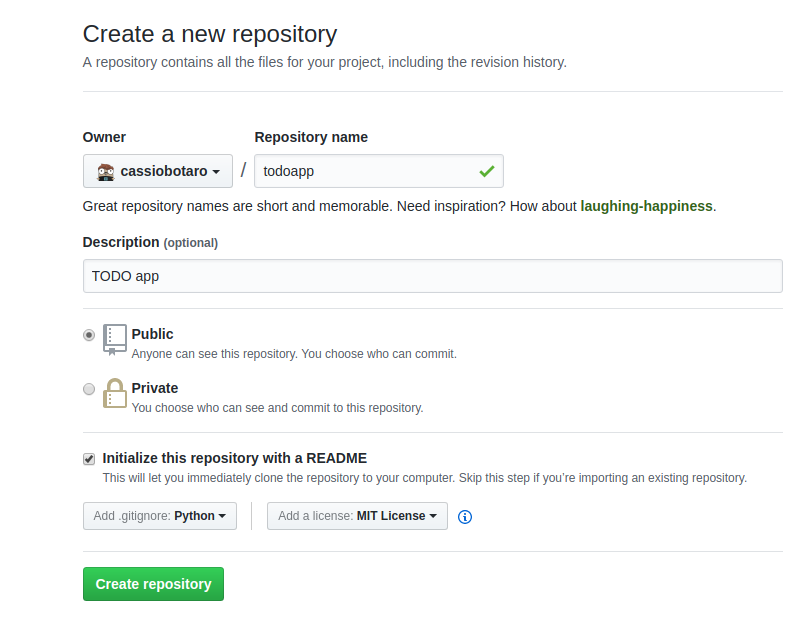
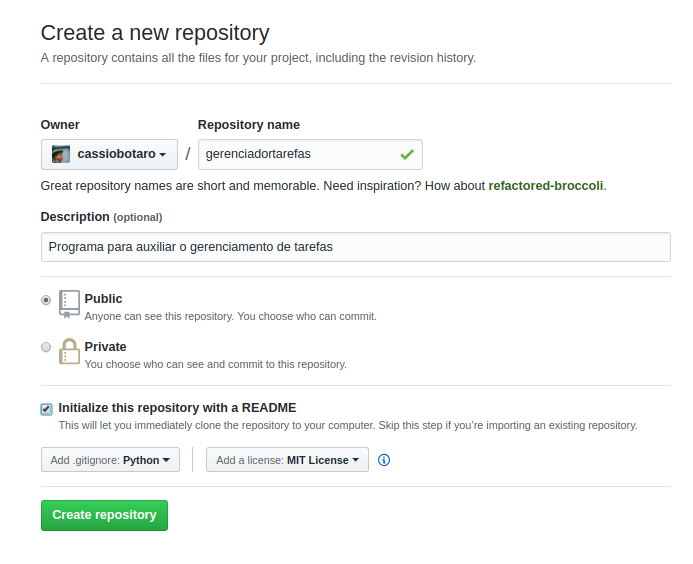
atualizando versões e revisando conteúdo

diff --git a/projeto.md b/projeto.md
@@ -10,7 +10,7 @@ Antes de instalar as bibliotecas que utilizaremos durante o nosso projeto, preci
 
 ## :arrow_forward: Começando a tirar do papel o projeto
 
-O primeiro passo para desenvolvimento do nosso aplicativo web é criá-lo utilizando um controle de versão.Para este minicurso optei pelo controle de versão mais popular hoje em dia que se chama git.
+O primeiro passo para desenvolvimento do nosso aplicativo web é criá-lo utilizando um controle de versão. Para este minicurso optei pelo controle de versão mais popular hoje em dia que se chama git.
 
 Aproveitando esta escolha, como o Github é gratuito e também o mais conhecido, vamos hospedar o projeto lá(que irá ajudar com algumas integrações futuramente).
 
@@ -25,8 +25,8 @@ Preencha os campos como visto na imagem abaixo.
 Agora faça um "clone" do seu repositório.
 
 ```bash
-$ git clone https://github.com/cassiobotaro/todoapp.git
-Cloning into 'todoapp'...
+$ git clone https://github.com/cassiobotaro/gerenciadortarefas.git
+Cloning into 'gerenciadortarefas'...
 remote: Counting objects: 5, done.
 remote: Compressing objects: 100% (4/4), done.
 remote: Total 5 (delta 0), reused 0 (delta 0), pack-reused 0
@@ -92,9 +92,9 @@ A saída para ambos os sistemas operacionais deverá ser similar a apresentada a
 
 ```bash
 $ pipenv run python -m flask --version
-Flask 0.12.2
-Python 3.6.4 (default, Jan  5 2018, 02:35:40)
-[GCC 7.2.1 20171224]
+Flask 1.0.2
+Python 3.7.0 (default, Sep 15 2018, 19:13:07) 
+[GCC 8.2.1 20180831]
 ```
 
 ### :link: Httpie
@@ -176,7 +176,7 @@ A saída para ambos os sistemas operacionais deverá ser similar a apresentada a
 
 ```bash
 $ pipenv run python -m pytest --version
-This is pytest version 3.4.2, imported from /home/cassiobotaro/.virtualenvs/todo.app-AIIv-fDj/lib/python3.6/site-packages/pytest.py
+This is pytest version 3.8.0, imported from /home/cassiobotaro/.local/share/virtualenvs/gerenciadortarefas-StqQxdHi/lib/python3.7/site-packages/pytest.py
 ```
 
 Neste momento seu diretório deve estar assim:
@@ -193,8 +193,8 @@ Vamos testar nossa instalção então?
 
 ```bash
 $ python3
-Python 3.6.2 (default, Jul 20 2017, 03:52:27)
-[GCC 7.1.1 20170630] on linux
+Python 3.7.0 (default, Sep 15 2018, 19:13:07) 
+[GCC 8.2.1 20180831] on linux
 Type "help", "copyright", "credits" or "license" for more information.
 >>> import flask
 Traceback (most recent call last):
@@ -203,14 +203,17 @@ ModuleNotFoundError: No module named 'flask'
 >>>
 ```
 
+:pushpin: Utilize `<Ctrl> + d` ou `exit()` para sair do python.
+
 :scream: Se entramos no python e tentamos importar a biblioteca flask, um erro é retornado dizendo que o módulo não foi encontrado.
 
 Acontece que instalamos o flask somente no ambiente virtual. Para entrarmos no ambiente virtual digite `pipenv shell`.
 
 ```bash
 $ python3
-Python 3.6.2 (default, Jul 20 2017, 03:52:27)
-[GCC 7.1.1 20170630] on linux
+n3
+Python 3.7.0 (default, Sep 15 2018, 19:13:07) 
+[GCC 8.2.1 20180831] on linux
 Type "help", "copyright", "credits" or "license" for more information.
 >>> import flask
 >>>
@@ -219,6 +222,7 @@ Type "help", "copyright", "credits" or "license" for more information.
 Instalado as dependências, vamos salvar uma primeira versão do nosso projeto com o nosso andamento?
 
 Primeiro passo é checar o que foi feito até agora:
+
 ```bash
 $ git status
 On branch master

diff --git a/ferramentas.md b/ferramentas.md
@@ -4,9 +4,9 @@
   <img style="float: right;" src="/imgs/acessorios-para-cozinha.jpg" alt="Acessórios de cozinha"/>
 </p>
 
-## Um bom chef escolhe as melhores ferramentas
+## :fork_and_knife: Um bom chef escolhe as melhores ferramentas
 
-Uma analogia que sou acostumado a fazer é que programar é igual a cozinhar, você deve escolher as melhores ferramentas. Um
+Uma analogia que normalmente faço é que programar é igual a cozinhar, você deve escolher as melhores ferramentas. Um
 bom chefe gasta algumas horas escolhendo quais acessórios serão necessários para a produção do prato e já deixa na bancada de
 forma que não precise ficar procurando enquanto está produzindo seu prato.
 
@@ -28,7 +28,7 @@ Siga os passos de acordo com o seu sistema operacional para cada ferramenta. Ten
 
 **Para que serve?**
 
-Com certeza você já escreveu um arquivo, mais tarde troca algumas coisas e salva como final. Mais tarde ou no outro dia decide fazer mais mudanças e chama de "agoravai" e quando menos percebe já tem um monte de arquivo e talvez nem se lembre mais qual a ultima versão.
+Com certeza você já escreveu um arquivo, mais tarde troca algumas coisas e salva como final. Mais tarde ou no outro dia você decide fazer mais mudanças e chama de "agoravai" e quando menos percebe já tem um monte de arquivos e talvez nem se lembre mais qual a ultima versão.
 
 É para gerenciar alterações feitas no projeto durante o tempo que serve esta ferramenta. Durante o curso vamos salvando cada progresso feito sem precisar de ter várias cópias do mesmo arquivo.
 
@@ -60,7 +60,7 @@ A saída para ambos os sistemas operacionais deverá ser:
 
 ```bash
 $ git --version
-git version 2.16.2
+git version 2.19.0
 ```
 
 ## :snake: Python
@@ -105,7 +105,7 @@ A saída para ambos os sistemas operacionais deverá ser:
 
 ```bash
 $ python3 --version
-Python 3.6.4
+Python 3.7.0
 ```
 
 ## :truck: Pip
@@ -142,7 +142,7 @@ A saída para ambos os sistemas operacionais deverá ser similar a apresentada a
 
 ```bash
 $ python3 -m pip --version
-pip 9.0.1 from /usr/lib/python3.6/site-packages (python 3.6)
+pip 18.0 from /usr/lib/python3.7/site-packages (python 3.7)
 ```
 
 ## :space_invader: Pipenv
@@ -181,7 +181,7 @@ A saída para ambos os sistemas operacionais deverá ser similar a apresentada a
 
 ```bash
 $ pipenv --version
-pipenv, version 11.6.1
+pipenv, version 2018.7.1
 ```
 
 ## :cloud: Heroku CLI
@@ -222,7 +222,7 @@ A saída para ambos os sistemas operacionais deverá ser similar a apresentada a
 
 ```bash
 $ heroku --version
-heroku-cli/6.15.35-cf39a29 (linux-x64) node-v9.8.0
+heroku/7.16.0 linux-x64 node-v10.10.0
 ```
 
 :tada: Parabéns! Instalamos todas as ferramentas que precisaremos para acompanhar este curso, vamos para o próximo passo!

diff --git a/planejando.md b/planejando.md
@@ -4,18 +4,18 @@
   <img style="float: right;" src="/imgs/todolist.png" alt="Lista de tarefas"/>
 </p>
 
-## Definindo o que iremos desenvolver
+## :thought_balloon: Definindo o que iremos desenvolver
 
 Quando iniciamos um projeto, a primeira coisa que devemos conhecer são as "regras de negócio" do nosso projeto. Mas o que é isso?
 
-É a descrição de como o nosso sistema deve ser e como deve se comportar diante da interação do usuário. Por exemplo, o sistema escolhido hoje é uma lista de afazeres.
+É a descrição de como o nosso sistema deve ser e como deve se comportar diante da interação do usuário. Por exemplo, o sistema escolhido hoje é para organizar uma lista de tarefas.
 
 
-## Regras de negócio
+## :pencil: Regras de negócio
 
-O sistema será um gerenciador de tarefas e a primeira decisão é que nosso sistema deve apresentar uma interface que possa ser consumida tanto por um website, tanto por um aplicativo.
+O sistema será um gerenciador de tarefas e a primeira decisão é que nosso sistema deve apresentar uma interface que possa ser consumida tanto por um website, tanto por um aplicativo para dispositivos móveis.
 
-Cada tarefa(afazer) possui um identificador único, um titulo e uma descrição e seu estado que pode ser finalizado/não-finalizado.
+Cada tarefa possui um identificador único, um titulo e uma descrição e seu estado que pode ser finalizado/não-finalizado.
 
 Como usuário devo ser capaz de:
 
